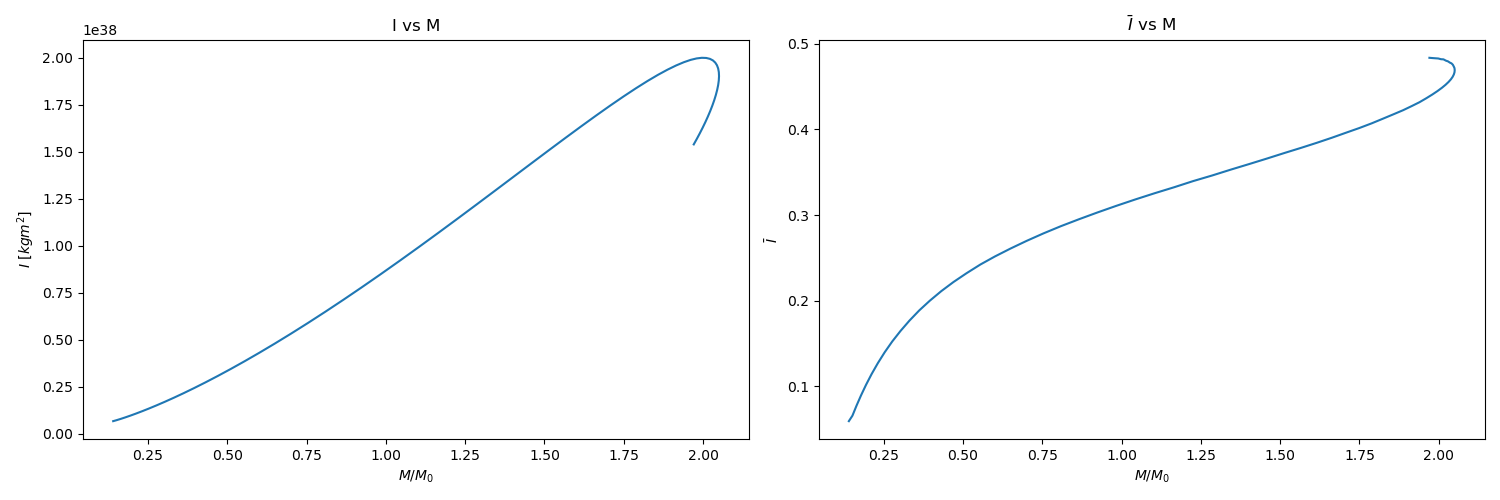
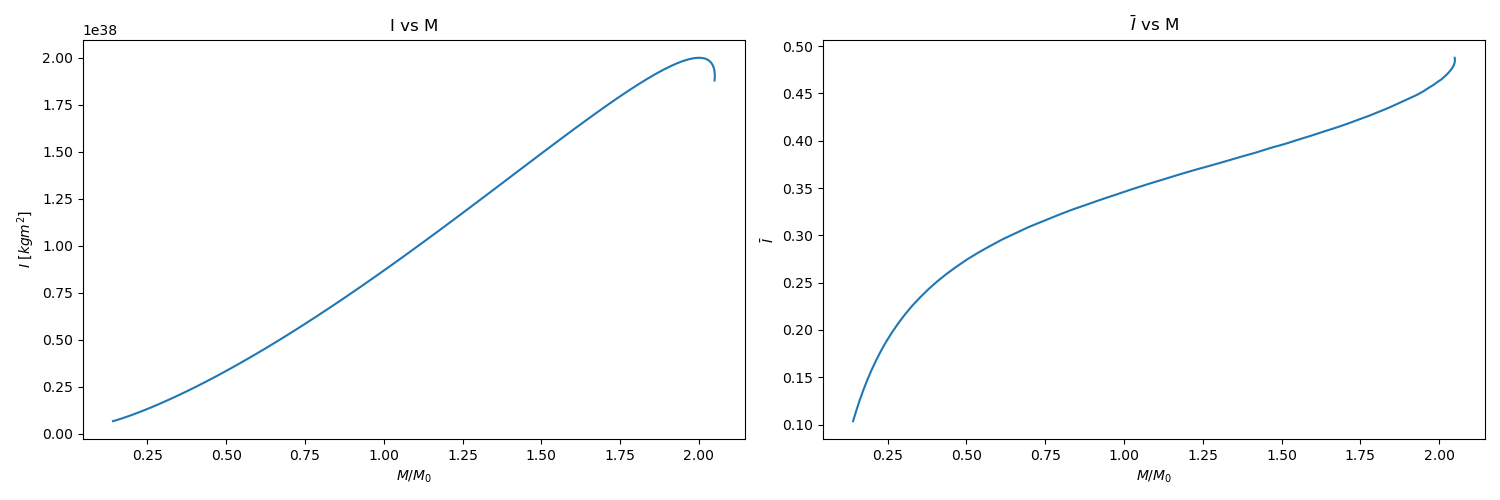
TOV Update 2.0

diff --git a/_Functions_/TOV.py b/_Functions_/TOV.py
@@ -5,9 +5,10 @@ from .Metric_Functions import *
 from .Config import *
 
 class TOV_SOLVER:
-    def __init__(self,EOS,CP):
+    def __init__(self,EOS,CP,rad_end=None):
         self.EOS= EOS
         self.CP= CP
+        self.rad_end=rad_end
 
     def TOV(self,y,r):
         pr, m = y
@@ -69,9 +70,14 @@ class TOV_SOLVER:
         rlist = [r0]
         psilist = [psi_0]
 
+        if self.rad_end == None:
+            bc_p=min_p
+        else:
+            bc_p=pr0*self.rad_end
+
         for ri in np.arange(r0+h, rmax, h):
             yi, psi_i = self.TOV_RK4(yi,psi_i,ri,h)
-            if yi[0] < min_p:
+            if yi[0] < bc_p:
                 break
 
             rlist.append(ri)
